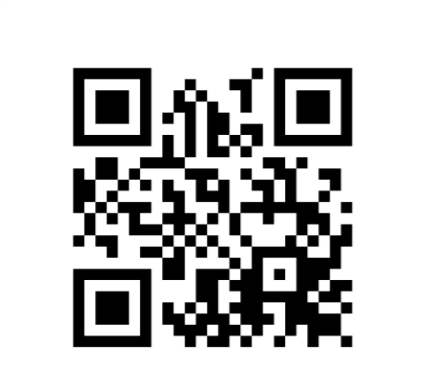
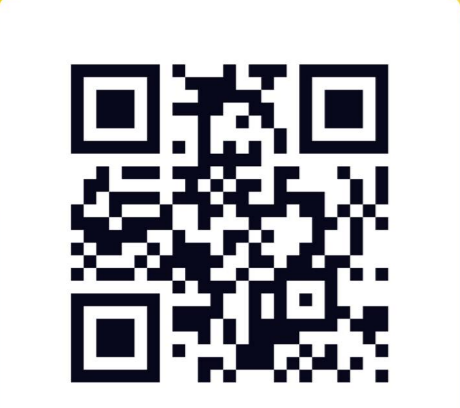
Updated QR image and WhatsApp widget

diff --git a/components/WhatsAppWidget.tsx b/components/WhatsAppWidget.tsx
@@ -13,7 +13,7 @@ export default function WhatsAppWidget() {
 
     // Format the message for WhatsApp URL
     const encodedMessage = encodeURIComponent(message);
-    const whatsappUrl = `https://wa.me/+9647805628606?text=${encodedMessage}`;
+    const whatsappUrl = `https://wa.me/+9647871100101?text=${encodedMessage}`;
     window.open(whatsappUrl, "_blank");
     setMessage("");
   };
